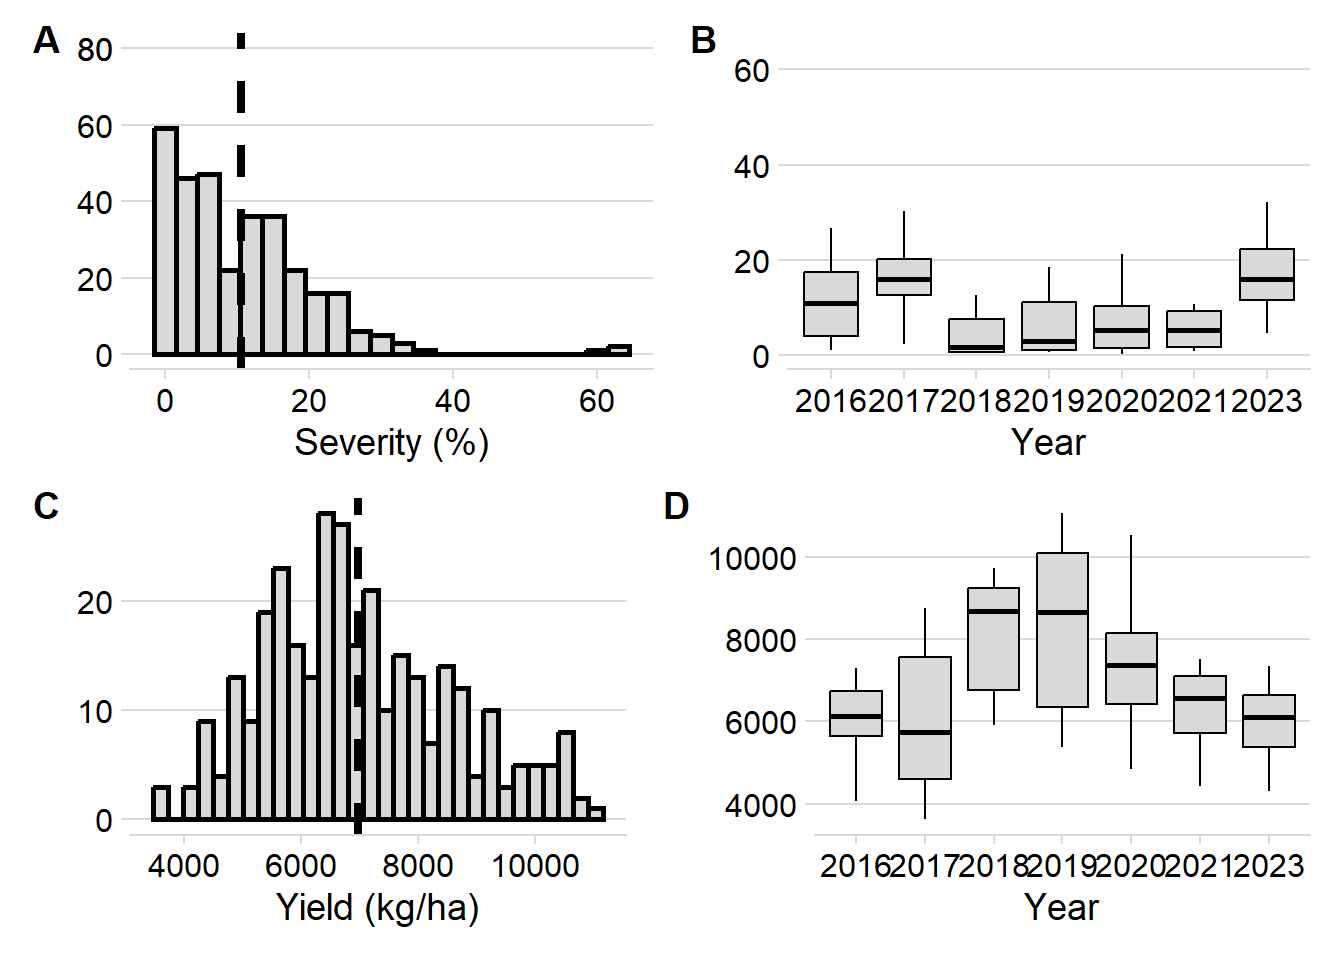
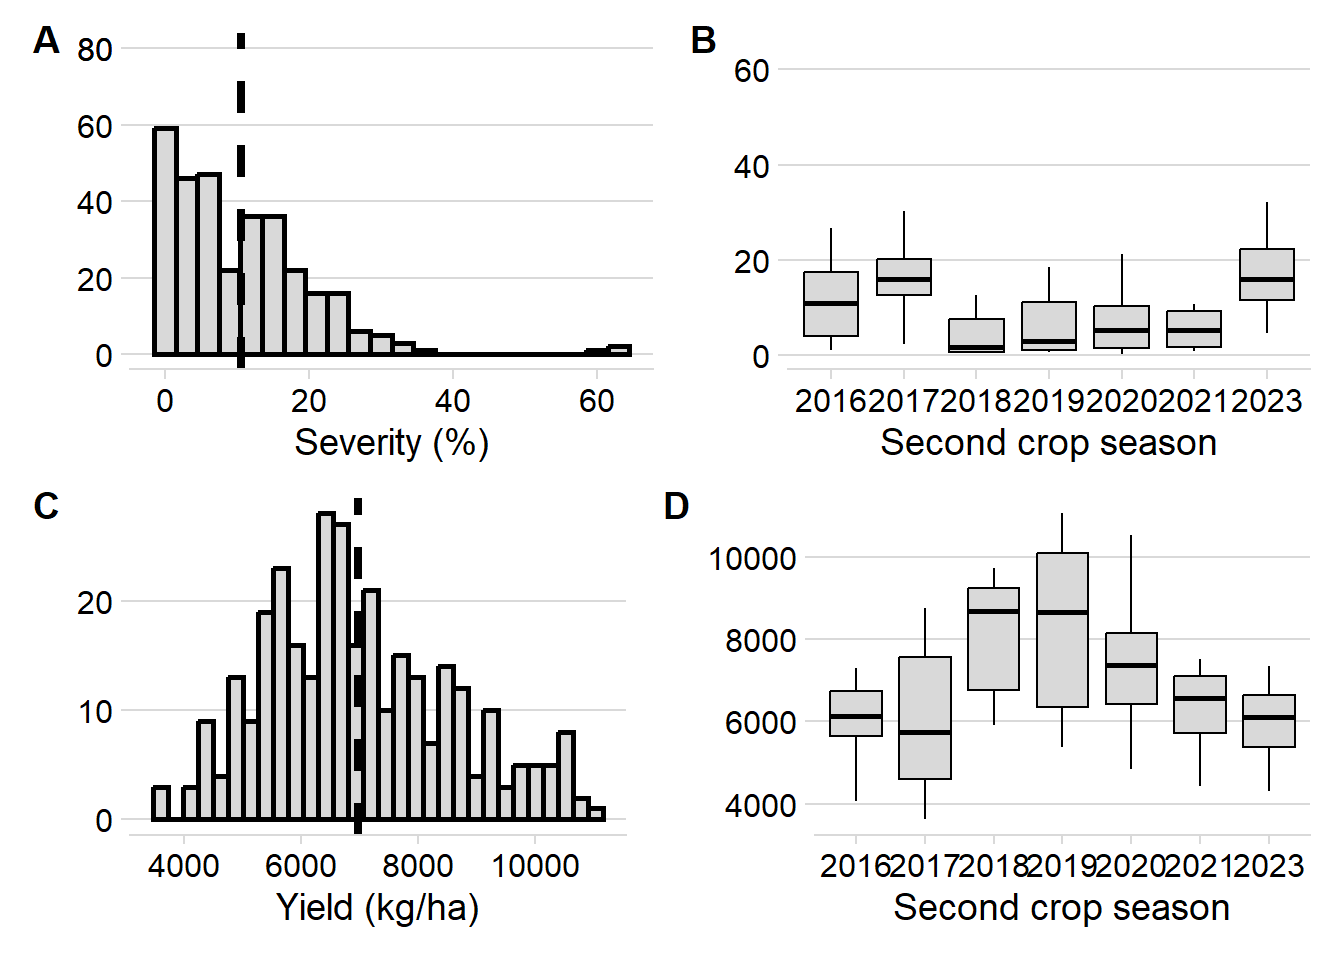
.

Changed region(s): [[0.6562, 0.4375, 0.9062, 0.5], [0.6562, 0.9375, 0.9062, 0.9688]]

diff --git a/docs/about.html b/docs/about.html
@@ -124,7 +124,7 @@ pre > code.sourceCode > span > a:first-child::before { text-decoration: underlin
             <ul class="navbar-nav navbar-nav-scroll me-auto">
   <li class="nav-item">
     <a class="nav-link" href="./index.html"> 
-<span class="menu-text">About</span></a>
+<span class="menu-text">index.html</span></a>
   </li>  
   <li class="nav-item">
     <a class="nav-link active" href="./about.html" aria-current="page"> 
@@ -151,7 +151,7 @@ pre > code.sourceCode > span > a:first-child::before { text-decoration: underlin
   <li><a href="#data-visualization" id="toc-data-visualization" class="nav-link" data-scroll-target="#data-visualization">Data visualization</a>
   <ul class="collapse">
   <li><a href="#data-distribution" id="toc-data-distribution" class="nav-link" data-scroll-target="#data-distribution">Data distribution</a></li>
-  <li><a href="#boxplots-year" id="toc-boxplots-year" class="nav-link" data-scroll-target="#boxplots-year">Boxplots year</a></li>
+  <li><a href="#boxplots" id="toc-boxplots" class="nav-link" data-scroll-target="#boxplots">Boxplots</a></li>
   <li><a href="#individual-regresions" id="toc-individual-regresions" class="nav-link" data-scroll-target="#individual-regresions">Individual regresions</a></li>
   </ul></li>
   <li><a href="#meta-analytic-models" id="toc-meta-analytic-models" class="nav-link" data-scroll-target="#meta-analytic-models">Meta-analytic models</a>
@@ -314,20 +314,20 @@ pre > code.sourceCode > span > a:first-child::before { text-decoration: underlin
 <span id="cb7-14"><a href="#cb7-14" aria-hidden="true" tabindex="-1"></a>  <span class="fu">geom_vline</span>(<span class="at">xintercept =</span> <span class="fl">6978.94</span>, <span class="at">size =</span> <span class="fl">1.5</span>, <span class="at">linetype =</span> <span class="dv">2</span>)</span></code><button title="Copy to Clipboard" class="code-copy-button"><i class="bi"></i></button></pre></div>
 </div>
 </section>
-<section id="boxplots-year" class="level2">
-<h2 class="anchored" data-anchor-id="boxplots-year">Boxplots year</h2>
+<section id="boxplots" class="level2">
+<h2 class="anchored" data-anchor-id="boxplots">Boxplots</h2>
 <div class="cell">
 <div class="sourceCode cell-code" id="cb8"><pre class="sourceCode r code-with-copy"><code class="sourceCode r"><span id="cb8-1"><a href="#cb8-1" aria-hidden="true" tabindex="-1"></a>box_sev <span class="ot">&lt;-</span> mb_mean <span class="sc">|&gt;</span> </span>
 <span id="cb8-2"><a href="#cb8-2" aria-hidden="true" tabindex="-1"></a>  <span class="fu">ggplot</span>(<span class="fu">aes</span>(<span class="fu">factor</span>(ano), mean_sev)) <span class="sc">+</span></span>
 <span id="cb8-3"><a href="#cb8-3" aria-hidden="true" tabindex="-1"></a>  <span class="fu">geom_boxplot</span>(<span class="at">outlier.shape =</span> <span class="cn">NA</span>, <span class="at">fill =</span> <span class="st">"grey85"</span>, <span class="at">color =</span> <span class="st">"black"</span>) <span class="sc">+</span></span>
 <span id="cb8-4"><a href="#cb8-4" aria-hidden="true" tabindex="-1"></a>  <span class="fu">theme_minimal_hgrid</span>() <span class="sc">+</span></span>
-<span id="cb8-5"><a href="#cb8-5" aria-hidden="true" tabindex="-1"></a>  <span class="fu">labs</span>(<span class="at">x =</span> <span class="st">"Year"</span>, <span class="at">y =</span> <span class="st">""</span>)</span>
+<span id="cb8-5"><a href="#cb8-5" aria-hidden="true" tabindex="-1"></a>  <span class="fu">labs</span>(<span class="at">x =</span> <span class="st">"Second crop season"</span>, <span class="at">y =</span> <span class="st">""</span>)</span>
 <span id="cb8-6"><a href="#cb8-6" aria-hidden="true" tabindex="-1"></a></span>
 <span id="cb8-7"><a href="#cb8-7" aria-hidden="true" tabindex="-1"></a>box_yld <span class="ot">&lt;-</span> mb_mean <span class="sc">|&gt;</span> </span>
 <span id="cb8-8"><a href="#cb8-8" aria-hidden="true" tabindex="-1"></a>  <span class="fu">ggplot</span>(<span class="fu">aes</span>(<span class="fu">factor</span>(ano), mean_yld)) <span class="sc">+</span></span>
 <span id="cb8-9"><a href="#cb8-9" aria-hidden="true" tabindex="-1"></a>  <span class="fu">geom_boxplot</span>(<span class="at">outlier.shape =</span> <span class="cn">NA</span>, <span class="at">fill =</span> <span class="st">"grey85"</span>, <span class="at">color =</span> <span class="st">"black"</span>) <span class="sc">+</span></span>
 <span id="cb8-10"><a href="#cb8-10" aria-hidden="true" tabindex="-1"></a>  <span class="fu">theme_minimal_hgrid</span>() <span class="sc">+</span></span>
-<span id="cb8-11"><a href="#cb8-11" aria-hidden="true" tabindex="-1"></a>  <span class="fu">labs</span>(<span class="at">x =</span> <span class="st">"Year"</span>, <span class="at">y =</span> <span class="st">""</span>) </span></code><button title="Copy to Clipboard" class="code-copy-button"><i class="bi"></i></button></pre></div>
+<span id="cb8-11"><a href="#cb8-11" aria-hidden="true" tabindex="-1"></a>  <span class="fu">labs</span>(<span class="at">x =</span> <span class="st">"Second crop season"</span>, <span class="at">y =</span> <span class="st">""</span>) </span></code><button title="Copy to Clipboard" class="code-copy-button"><i class="bi"></i></button></pre></div>
 </div>
 <div class="cell">
 <div class="sourceCode cell-code" id="cb9"><pre class="sourceCode r code-with-copy"><code class="sourceCode r"><span id="cb9-1"><a href="#cb9-1" aria-hidden="true" tabindex="-1"></a>(dist_sev <span class="sc">|</span> box_sev)<span class="sc">/</span></span>

diff --git a/docs/index.html b/docs/index.html
@@ -7,7 +7,7 @@
 <meta name="viewport" content="width=device-width, initial-scale=1.0, user-scalable=yes">
 
 
-<title>About – Severity-yield relationship for white spot in maize</title>
+<title>Severity-yield relationship for white spot in maize</title>
 <style>
 code{white-space: pre-wrap;}
 span.smallcaps{font-variant: small-caps;}
@@ -90,7 +90,7 @@ ul.task-list li input[type="checkbox"] {
             <ul class="navbar-nav navbar-nav-scroll me-auto">
   <li class="nav-item">
     <a class="nav-link active" href="./index.html" aria-current="page"> 
-<span class="menu-text">About</span></a>
+<span class="menu-text">index.html</span></a>
   </li>  
   <li class="nav-item">
     <a class="nav-link" href="./about.html"> 
@@ -113,23 +113,7 @@ ul.task-list li input[type="checkbox"] {
 <!-- main -->
 <main class="content" id="quarto-document-content">
 
-<header id="title-block-header" class="quarto-title-block default">
-<div class="quarto-title">
-<h1 class="title">About</h1>
-</div>
 
-
-
-<div class="quarto-title-meta">
-
-    
-  
-    
-  </div>
-  
-
-
-</header>
 
 
 <p>This website offers access to well-documented R scripts that facilitate the replication of analyses from our study.</p>
